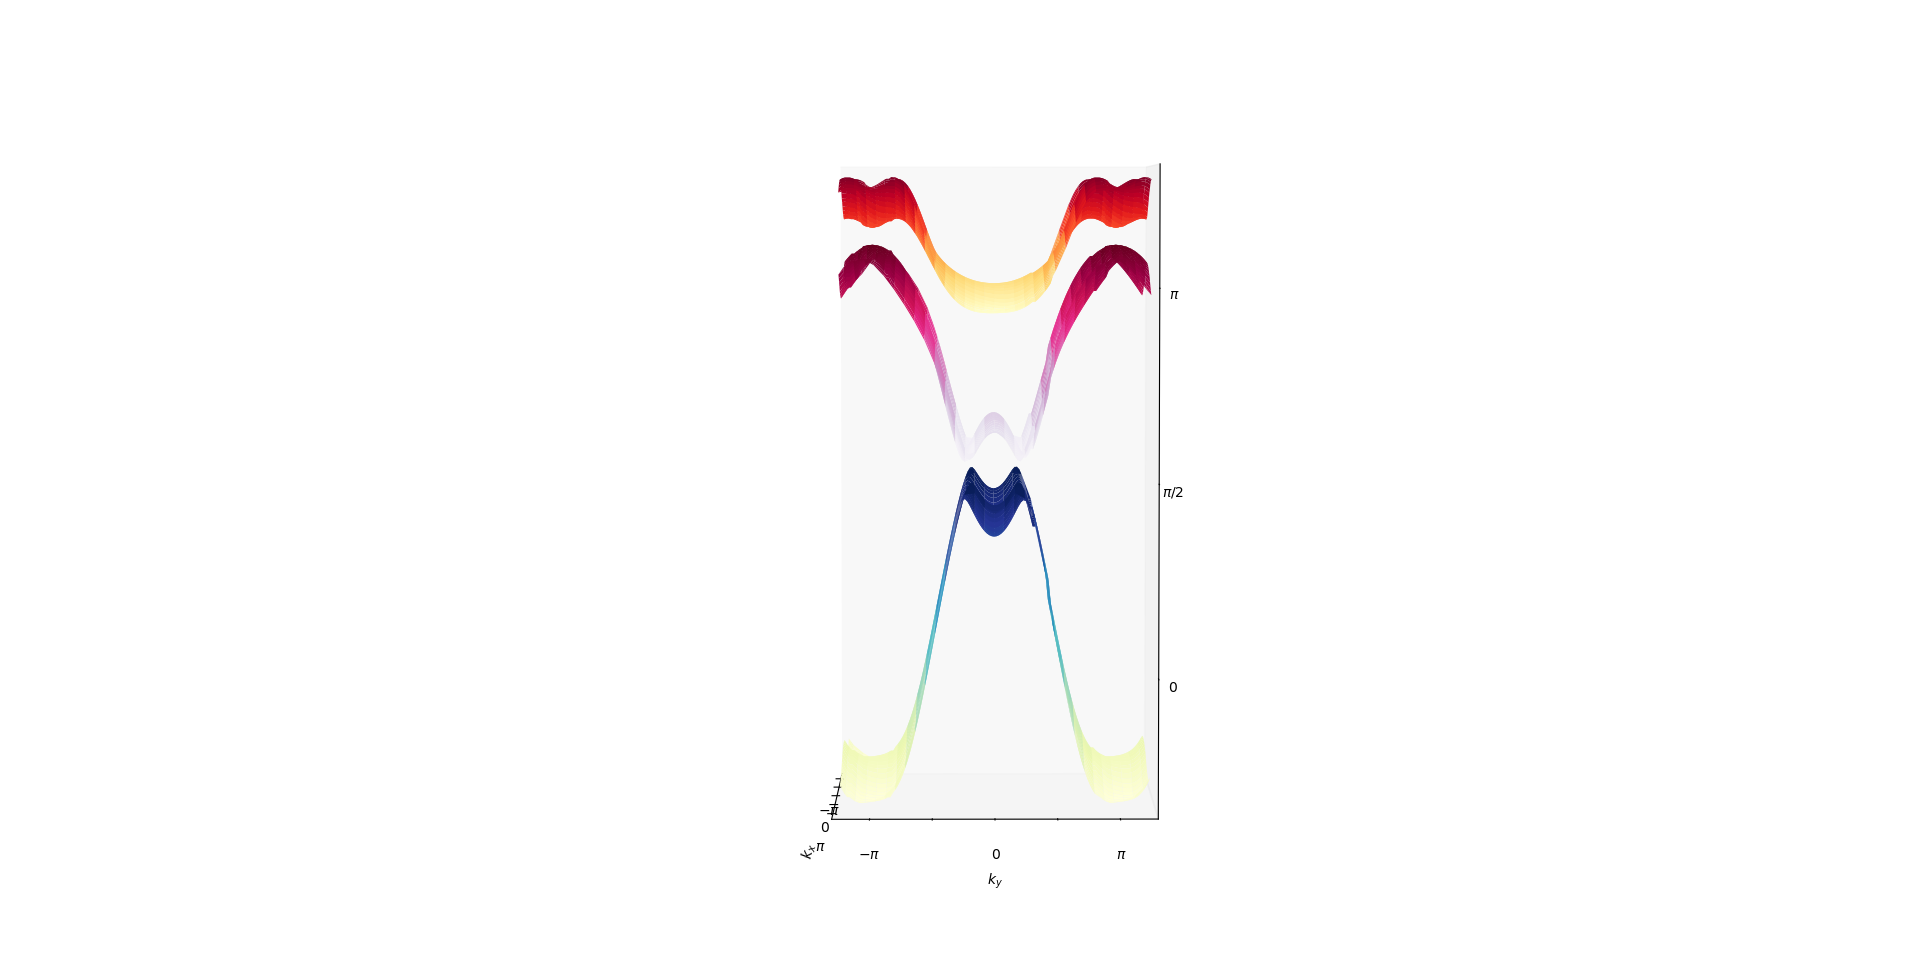
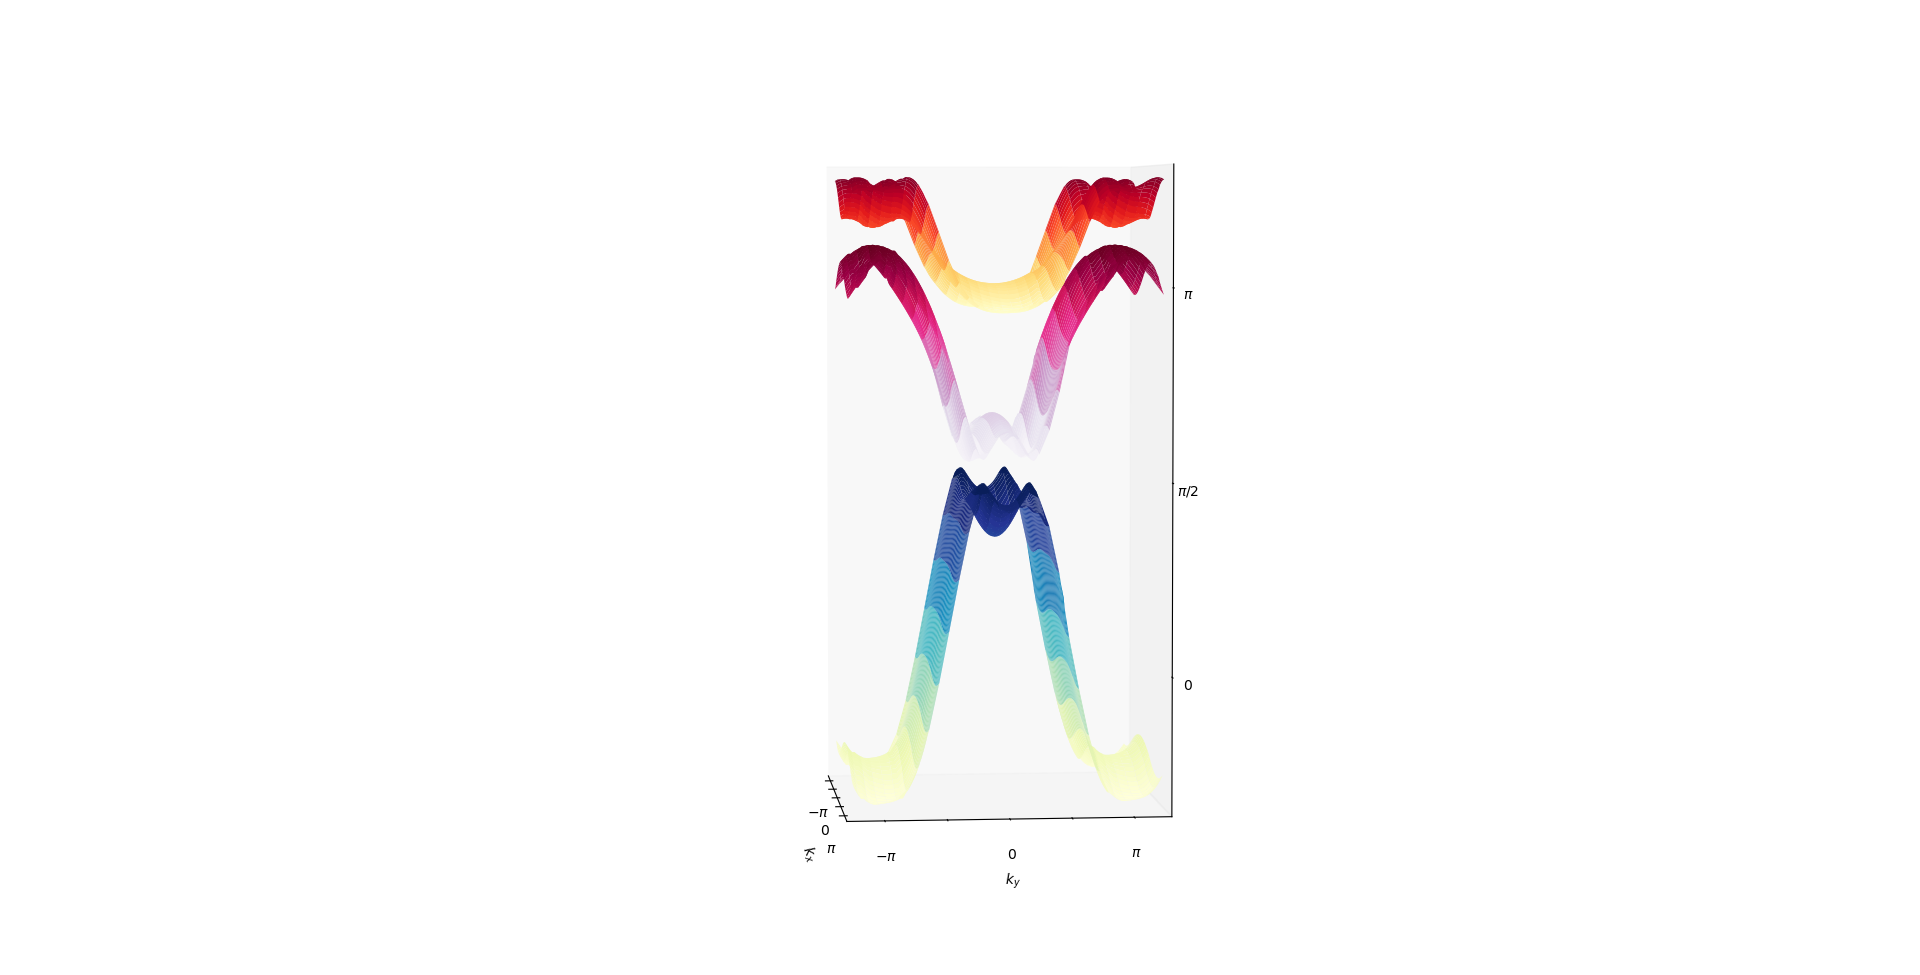
Braiding

diff --git a/square_complete.py b/square_complete.py
@@ -16,7 +16,7 @@ plot_from_save = True
 
 
 # PARAMETERS
-delta_A = 3
+delta_A = 3.5
 delta_C = -3
 omega = 9
 A_x = 1
